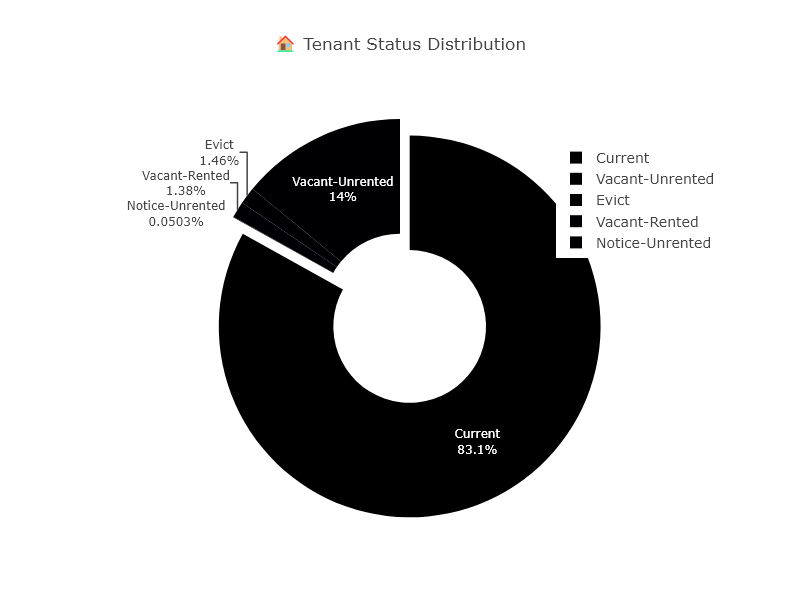
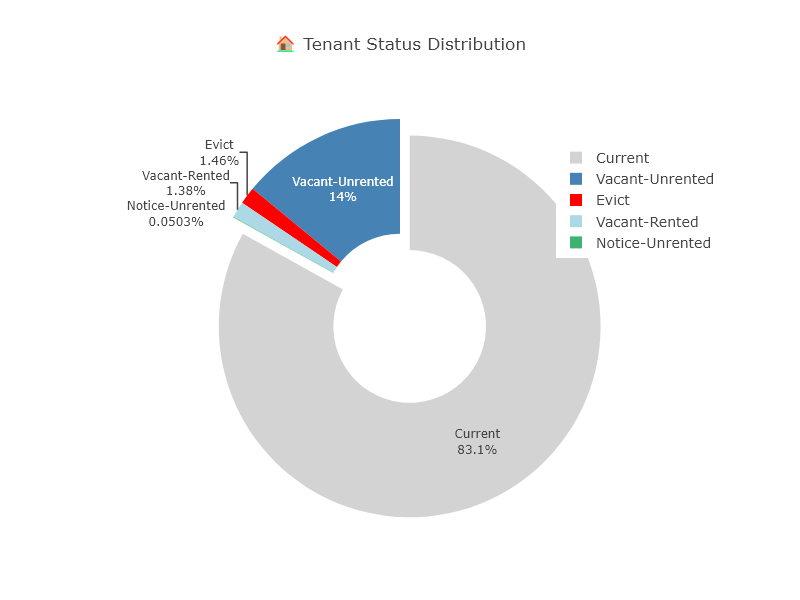
changes

Changed region(s): [[0.25, 0.18, 0.75, 0.87]]

diff --git a/dashboard.py b/dashboard.py
@@ -88,6 +88,8 @@ def show_dashboard():
     IMG_DIR = "plotly_images"
     os.makedirs(IMG_DIR, exist_ok=True)
 
+    region_df = pd.read_csv("region_list.csv")
+
     # 🔹 Generate and Save Plotly Charts as Images
     image_paths = []
     # 🔹 3. Display DataFrames in Tabs
@@ -102,14 +104,6 @@ def show_dashboard():
         ])
 
     with tab1:
-         # Get unique filter values
-        properties = dfs["Rent Roll"]["Property Name"].dropna().unique().tolist()
-        statuses = dfs["Rent Roll"]["Status"].dropna().unique().tolist()
-
-        col_prop = st.columns(3)[0]
-
-        with col_prop:
-            selected_property = st.selectbox("Filter by Property", ["All"] + properties)
 
        # Filter data
         rent_roll = dfs["Rent Roll"].copy()
@@ -117,11 +111,35 @@ def show_dashboard():
         trailing_12months = dfs["Rent Roll 12 Months"].copy()  
         tenant_data = dfs["Tenant Data"].copy()
 
+        rent_roll = rent_roll.merge(region_df, on="Property Name", how="left")
+        rent_roll1 = rent_roll1.merge(region_df, on="Property Name", how="left")
+        trailing_12months = trailing_12months.merge(region_df, on="Property Name", how="left")
+        tenant_data = tenant_data.merge(region_df, on="Property Name", how="left")
+
+        properties = dfs["Rent Roll"]["Property Name"].dropna().unique().tolist()
+        regions = rent_roll["Region"].dropna().unique().tolist()
+        statuses = dfs["Rent Roll"]["Status"].dropna().unique().tolist()
+
+        col_prop,col_region, col_s= st.columns(3)
+
+        with col_prop:
+            selected_property = st.selectbox("Filter by Property", ["All"] + properties)
+
+        with col_region:
+            selected_region = st.selectbox("Filter by Region", ["All"] + regions)
+        
+
         if selected_property != "All":
             rent_roll = rent_roll[rent_roll["Property Name"] == selected_property]
             rent_roll1 = rent_roll1[rent_roll1["Property Name"] == selected_property]
             trailing_12months = trailing_12months[trailing_12months["Property Name"] == selected_property]
             tenant_data = tenant_data[tenant_data["Property Name"] == selected_property]
+
+        if selected_region != "All":
+            rent_roll = rent_roll[rent_roll["Region"] == selected_region]
+            rent_roll1 = rent_roll1[rent_roll1["Region"] == selected_region]
+            trailing_12months = trailing_12months[trailing_12months["Region"] == selected_region]
+            tenant_data = tenant_data[tenant_data["Region"] == selected_region]
 
         # Metric calculations using filtered data
         col1, col2, col3, col4, col05 = st.columns(5)
@@ -353,13 +371,13 @@ def show_dashboard():
             for trace in fig.data:
                 if trace.type == "bar":
                     trace.texttemplate = "%{text:,}"
-                    trace.textposition = "auto"
+                    trace.textposition = "inside"
 
             # Add total labels as overlay
             fig.add_trace(
                 go.Scatter(
                     x=totals["BD/BA"],
-                    y=totals["Total"]+55,
+                    y=totals["Total"],
                     mode="text",
                     text=totals["Total"].map('{:,}'.format),
                     textposition="top center",  
@@ -389,7 +407,7 @@ def show_dashboard():
                 # Normalize to match color map keys
                 status_counts["Status"] = status_counts["Status"].str.strip().str.title().str.replace(" ", "-")
 
-                color_map = {
+                color_map1 = {
                     "Current": "lightgrey",
                     "Vacant-Unrented": "steelblue",
                     "Vacant-Rented": "lightblue",
@@ -404,7 +422,8 @@ def show_dashboard():
                     names="Status",
                     title="🏠 Tenant Status Distribution",
                     hole=0.4,
-                    color_discrete_map=color_map
+                    color="Status",
+                    color_discrete_map=color_map1
                 )
 
                 fig4.update_layout(
@@ -664,20 +683,32 @@ def show_dashboard():
 
 
     with tab2:
-        # Filters
-        properties1 = dfs["Rent Roll"]["Property Name"].dropna().unique().tolist()
+         # Filter data
+        rent_roll = dfs["Rent Roll"].copy()
+        rent_roll2 = dfs["Rent Roll"].copy()
 
-        col_prop1 = st.columns(3)[0]
+        rent_roll = rent_roll.merge(region_df, on="Property Name", how="left")
+        rent_roll2 = rent_roll2.merge(region_df, on="Property Name", how="left")
+
+        properties1 = dfs["Rent Roll"]["Property Name"].dropna().unique().tolist()
+        regions1 = rent_roll["Region"].dropna().unique().tolist()
+
+        col_prop1, col_region1,col_s1 = st.columns(3)
 
         with col_prop1:
             selected_property1 = st.selectbox("Filter by Property", ["All"] + properties1, key="property_tab2")
 
-        # Filter data
-        rent_roll = dfs["Rent Roll"].copy()
-        rent_roll2 = dfs["Rent Roll"].copy()
+        with col_region1:
+            selected_region1 = st.selectbox("Filter by Region", ["All"] + regions1, key="region_tab2")
+       
+
         if selected_property1 != "All":
             rent_roll = rent_roll[rent_roll["Property Name"] == selected_property1]
             rent_roll2 = rent_roll2[rent_roll2["Property Name"] == selected_property1]
+
+        if selected_region1 != "All":
+            rent_roll = rent_roll[rent_roll["Region"] == selected_region1]
+            rent_roll2 = rent_roll2[rent_roll2["Region"] == selected_region1]
 
         col26, col27= st.columns(2)
 
@@ -802,16 +833,27 @@ def show_dashboard():
 
 
     with tab3:
+        df_leasing = dfs["Leasing"].copy()
+        df_leasing1 = dfs["Leasing"].copy()
+        
+        df_leasing = df_leasing.merge(region_df, left_on="Property", right_on="Property Name", how="left")
+        df_leasing1 = df_leasing1.merge(region_df, left_on="Property", right_on="Property Name", how="left")
+
           # Get unique filter values
         properties3 = dfs["Leasing"]["Property"].dropna().unique().tolist()
+        regions3 = df_leasing["Region"].dropna().unique().tolist()
 
-        col_prop3 = st.columns(3)[0]
+        col_prop3,col_region3,col_s3 = st.columns(3)
 
         with col_prop3:
             selected_property3 = st.selectbox("Filter by Property", ["All"] + properties3, key="property_tab3")
 
-        df_leasing = dfs["Leasing"].copy()
-        df_leasing1 = dfs["Leasing"].copy()
+        with col_region3:
+            selected_region3 = st.selectbox("Filter by Region", ["All"] + regions3, key="region_tab3")
+
+        if selected_region3 != "All":
+            df_leasing = df_leasing[df_leasing["Region"] == selected_region3]
+            df_leasing1 = df_leasing1[df_leasing1["Region"] == selected_region3]
 
         if selected_property3 != "All":
             df_leasing = df_leasing[df_leasing["Property"] == selected_property3]
@@ -923,21 +965,31 @@ def show_dashboard():
 
     with tab4:
         
-         # Filters
-        properties4 = dfs["Rent Roll"]["Property Name"].dropna().unique().tolist()
+        df_work = dfs["Work Orders"].copy()
+        df_work1 = dfs["Work Orders"].copy()
 
-        col_prop4 = st.columns(3)[0]
+        df_work = df_work.merge(region_df, on="Property Name", how="left")
+        df_work1 = df_work1.merge(region_df, on="Property Name", how="left")
+
+        properties4 = dfs["Rent Roll"]["Property Name"].dropna().unique().tolist()
+        region4 = df_work["Region"].dropna().unique().tolist()
+
+        col_prop4, col_region4,col_s4 = st.columns(3)
 
         with col_prop4:
             selected_property4 = st.selectbox("Filter by Property", ["All"] + properties4, key="property_tab4")
 
-        # Filter data
-        df_work = dfs["Work Orders"].copy()
-        df_work1 = dfs["Work Orders"].copy()
+        with col_region4:
+            selected_region4 = st.selectbox("Filter by Region", ["All"] + region4, key="region_tab4")
+
 
         if selected_property4 != "All":
             df_work = df_work[df_work["Property Name"] == selected_property4]
             df_work1 = df_work1[df_work1["Property Name"] == selected_property4]
+
+        if selected_region4 != "All":
+            df_work = df_work[df_work["Region"] == selected_region4]
+            df_work1 = df_work1[df_work1["Region"] == selected_region4]
 
         col45, col46 = st.columns(2)
 
@@ -1037,15 +1089,14 @@ def show_dashboard():
                 ]
             )
 
-
             fig.add_trace(
                 go.Scatter(
                     x=monthly_totals["Month"],
-                    y=monthly_totals["Total"]+200,
+                    y=monthly_totals["Total"],
                     mode="text",
                     text=monthly_totals["Total"].map('{:,}'.format),
-                    textposition="bottom center",
-                    textfont=dict(size=12, family="Arial Black", color="steelblue"),
+                    textposition="top center",
+                    textfont=dict(size=12),
                     showlegend=False
                 )
             )
@@ -1059,7 +1110,7 @@ def show_dashboard():
 
             fig.update_traces(
                 texttemplate="%{text:,}",
-                textposition="auto",
+                textposition="inside",
                 selector=dict(type="bar")
             )
 
@@ -1067,23 +1118,34 @@ def show_dashboard():
 
     with tab5:
 
-         # Get unique filter values
-        properties5 = dfs["Rent Roll"]["Property Name"].dropna().unique().tolist()
-
-        col_prop5 = st.columns(3)[0]
-
-        with col_prop5:
-            selected_property5 = st.selectbox("Filter by Property", ["All"] + properties5, key="property_tab5")
-
-       # Filter data
         rent_roll = dfs["Rent Roll"].copy()
         tenant_data = dfs["Tenant Data"].copy()
         tenant_data1 = dfs["Tenant Data"].copy()
+
+        rent_roll = rent_roll.merge(region_df, on="Property Name", how="left")
+        tenant_data = tenant_data.merge(region_df, on="Property Name", how="left")
+        tenant_data1 = tenant_data1.merge(region_df, on="Property Name", how="left")
+    
+        properties5 = dfs["Rent Roll"]["Property Name"].dropna().unique().tolist()
+        region5 = rent_roll["Region"].dropna().unique().tolist()
+
+        col_prop5, col_region5,col_s5 = st.columns(3)
+
+        with col_prop5:
+            selected_property5 = st.selectbox("Filter by Property", ["All"] + properties5, key="property_tab5")
+        
+        with col_region5:
+            selected_region5 = st.selectbox("Filter by Region", ["All"] + region5, key="region_tab5")
 
         if selected_property5 != "All":
             rent_roll = rent_roll[rent_roll["Property Name"] == selected_property5]
             tenant_data = tenant_data[tenant_data["Property Name"] == selected_property5]
             tenant_data1 = tenant_data1[tenant_data1["Property Name"] == selected_property5]
+
+        if selected_region5 != "All":
+            rent_roll = rent_roll[rent_roll["Region"] == selected_region5]
+            tenant_data = tenant_data[tenant_data["Region"] == selected_region5]
+            tenant_data1 = tenant_data1[tenant_data1["Region"] == selected_region5]
 
         col51, col52, col53, col54 = st.columns(4)
 
@@ -1114,7 +1176,7 @@ def show_dashboard():
             
             df_late = rent_roll[rent_roll['Past Due'] >500]
             df_late = df_late.sort_values(by="Past Due", ascending=False).head(30)  # top 30 tenants
-            print(df_late)
+ 
             # Plotly dual-axis chart
             fig = go.Figure()
 
@@ -1204,21 +1266,27 @@ def show_dashboard():
             st.plotly_chart(fig, use_container_width=True)
 
     with tab6:
-          # Filters
+        
+        bill = dfs["Bill"].copy()
+        bill1 = dfs["Bill"].copy()
+
+        bill = bill.merge(region_df, on="Property Name", how="left")
+        bill1 = bill1.merge(region_df, on="Property Name", how="left")
+
         properties6 = dfs["Bill"]["Property Name"].dropna().unique().tolist()
         properties06 = dfs["Bill"]["Payee Name"].dropna().unique().tolist()
+        region6 = bill["Region"].dropna().unique().tolist()
 
-        col_prop6, col_prop06, col_prop006 = st.columns(3)
+        col_prop6,col_region6, col_prop06= st.columns(3)
 
         with col_prop6:
             selected_property6 = st.selectbox("Filter by Property", ["All"] + properties6, key="property_tab6")
         
         with col_prop06:
             selected_property06 = st.selectbox("Filter by Payee", ["All"] + properties06, key="property_tab06")
-
-        # Filter data
-        bill = dfs["Bill"].copy()
-        bill1 = dfs["Bill"].copy()
+            
+        with col_region6:
+            selected_region6 = st.selectbox("Filter by Region", ["All"] + region6, key="region_tab6")
 
         if selected_property6 != "All":
             bill = bill[bill["Property Name"] == selected_property6]
@@ -1227,6 +1295,10 @@ def show_dashboard():
         if selected_property06 != "All":
             bill = bill[bill["Payee Name"] == selected_property06]
             bill1 = bill1[bill1["Payee Name"] == selected_property06]
+
+        if selected_region6 != "All":
+            bill = bill[bill["Region"] == selected_region6]
+            bill = bill[bill["Region"] == selected_region6]
 
         col65 = st.columns(1)[0]
 
